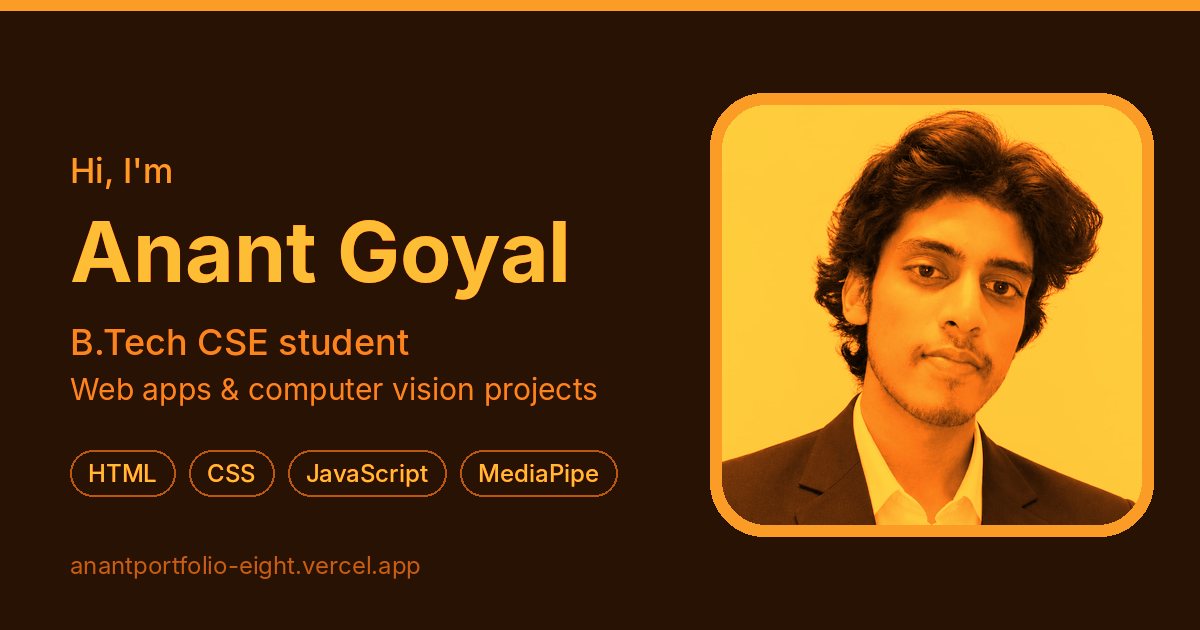
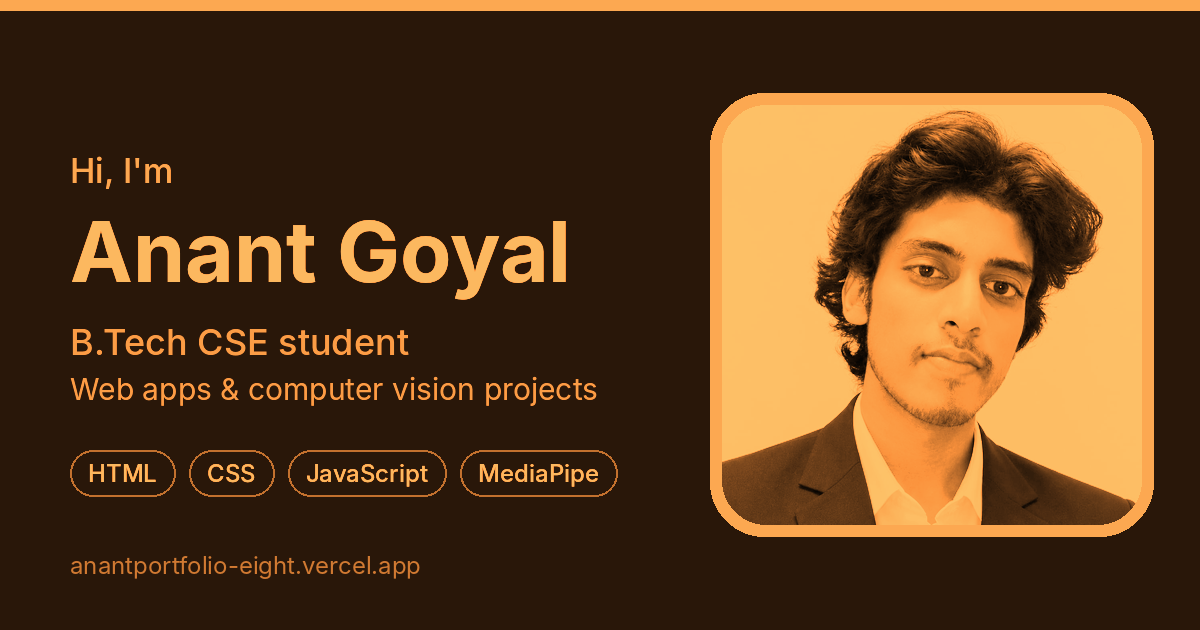
Lighter orange/yellow, bigger name, Sora + Plus Jakarta Sans fonts
Claude-Session: https://claude.ai/code/session_011E42H1WkRXJ2XLUoMEojoR

diff --git a/clean-ui.css b/clean-ui.css
@@ -330,7 +330,7 @@ footer .back-to-top-link:hover{
   display:block;
 }
 .hero-tagline{
-  font-family:"Space Grotesk",Inter,system-ui,sans-serif;
+  font-family:Sora,"Plus Jakarta Sans",system-ui,sans-serif;
   font-weight:700;
   font-size:clamp(1.15rem,2.6vw,1.55rem);
   line-height:1.3;
@@ -398,7 +398,7 @@ footer .back-to-top-link:hover{
   margin:0 0 20px !important;
 }
 .finale-sub{
-  font-family:"Space Grotesk",Inter,sans-serif;
+  font-family:Sora,"Plus Jakarta Sans",sans-serif;
   font-weight:700;
   font-size:clamp(1rem,2.4vw,1.25rem);
   color:#a3a3a3;
@@ -430,12 +430,12 @@ footer .back-to-top-link:hover{
   --bg2:#0d0a07 !important;
   --text:#fff7ea !important;
   --muted:#b3a899 !important;
-  --accent:#FFB300 !important;
-  --accent2:#F97316 !important;
-  --accent3:#FFD23F !important;
+  --accent:#FCD34D !important;
+  --accent2:#FB923C !important;
+  --accent3:#FFE68A !important;
   --border:#2b2116 !important;
-  --accent-rgb:255,179,0 !important;
-  --accent2-rgb:249,115,22 !important;
+  --accent-rgb:252,211,77 !important;
+  --accent2-rgb:251,146,60 !important;
   --accent3-rgb:255,210,63 !important;
   --nav-bg:rgba(0,0,0,.9) !important;
   --tag-bg:#18110a !important;
@@ -443,26 +443,26 @@ footer .back-to-top-link:hover{
   --heat-empty:#18110a !important;
   --skel-base:#18110a !important;
   --btn-text:#000000 !important;
-  --btn-shadow:#C2410C !important;
+  --btn-shadow:#EA7A28 !important;
   --ghost-shadow:#18110a !important;
-  --h1-shadow:0 2px 28px rgba(249,115,22,.18) !important;
+  --h1-shadow:0 2px 28px rgba(251,146,60,.18) !important;
 }
-:root{--grad:linear-gradient(100deg,#FFD23F 0%,#FFB300 38%,#F97316 100%)}
+:root{--grad:linear-gradient(100deg,#FFE68A 0%,#FCD34D 38%,#FB923C 100%)}
 .card{background:#0d0a07 !important;border-color:#2b2116 !important}
-.project:hover{border-color:#F97316 !important}
+.project:hover{border-color:#FB923C !important}
 
 /* Name: ANANT white, GOYAL in yellow→orange with soft warm glow */
 .name-hot{
   background:var(--grad);
   -webkit-background-clip:text;background-clip:text;
   -webkit-text-fill-color:transparent;color:transparent !important;
-  filter:drop-shadow(0 4px 26px rgba(249,115,22,.35));
+  filter:drop-shadow(0 4px 26px rgba(251,146,60,.35));
 }
 .hero-copy::before,
-#intro-splash .intro-inner::before{-webkit-text-stroke:1px rgba(255,150,40,.10)}
-#intro-splash .intro-line{background:linear-gradient(90deg,transparent,#FFB300,#F97316,transparent)}
+#intro-splash .intro-inner::before{-webkit-text-stroke:1px rgba(252,170,70,.10)}
+#intro-splash .intro-line{background:linear-gradient(90deg,transparent,#FCD34D,#FB923C,transparent)}
 .hero .lead{color:#b3a899 !important}
-.eyebrow,[data-theme="dark"] .eyebrow{color:#FFB300 !important}
+.eyebrow,[data-theme="dark"] .eyebrow{color:#FCD34D !important}
 
 /* Primary buttons: yellow→orange, black bold text */
 .btn.btn-primary,
@@ -470,41 +470,48 @@ footer .back-to-top-link:hover{
 #contact .btn.btn-primary{
   background:var(--grad) !important;color:#000 !important;
   border:0 !important;font-weight:800 !important;
-  box-shadow:0 8px 24px rgba(249,115,22,.28) !important;
+  box-shadow:0 8px 24px rgba(251,146,60,.28) !important;
 }
 .btn.btn-primary:hover,
 .proj-actions .btn:hover,.proj-actions a.btn:hover,.project .proj-actions .btn.small:hover{
-  background:linear-gradient(100deg,#FFE066,#FFC21A 40%,#FB8A3C) !important;color:#000 !important;
-  transform:translateY(-2px);box-shadow:0 12px 30px rgba(249,115,22,.42) !important;
+  background:linear-gradient(100deg,#FFF1A8,#FDDD6B 40%,#FDA45E) !important;color:#000 !important;
+  transform:translateY(-2px);box-shadow:0 12px 30px rgba(251,146,60,.42) !important;
 }
 .btn.ghost,.nav nav a.btn.small,.nav nav a[href="#contact"].btn{
-  background:transparent !important;color:#FFB300 !important;
-  border:1.5px solid #F97316 !important;font-weight:800 !important;
+  background:transparent !important;color:#FCD34D !important;
+  border:1.5px solid #FB923C !important;font-weight:800 !important;
 }
 .btn.ghost:hover,.nav nav a.btn.small:hover{
-  background:rgba(249,115,22,.14) !important;border-color:#FFB300 !important;color:#FFD23F !important;
+  background:rgba(251,146,60,.14) !important;border-color:#FCD34D !important;color:#FFE68A !important;
 }
-.nav nav a.btn,.nav nav a.btn:hover{color:#FFB300 !important}
-.nav nav a:not(.btn):hover{color:#FFB300 !important}
+.nav nav a.btn,.nav nav a.btn:hover{color:#FCD34D !important}
+.nav nav a:not(.btn):hover{color:#FCD34D !important}
 
 /* Social buttons */
 .socials a.social-btn{
-  background:#0d0a07 !important;color:#FFB300 !important;border:1.5px solid #5a3a14 !important;
+  background:#0d0a07 !important;color:#FCD34D !important;border:1.5px solid #6b4a1c !important;
 }
 .socials a.social-btn:hover{
   background:var(--grad) !important;color:#000 !important;border-color:transparent !important;
-  box-shadow:0 8px 22px rgba(249,115,22,.35) !important;
+  box-shadow:0 8px 22px rgba(251,146,60,.35) !important;
 }
 
 /* Links, hero badge, back to top */
-[data-theme="dark"] a:hover{color:#FFB300}
-.card .plain li a[href^="http"]{text-decoration-color:rgba(255,179,0,.6)}
-.card .plain li a[href^="http"]::after{color:#F97316}
-.card .plain li a[href^="http"]:hover{text-decoration-color:#FFB300;background:rgba(255,179,0,.1)}
-.card .plain li a[href^="http"]:focus-visible,.btn:focus-visible,a:focus-visible{outline:2px solid #FFB300 !important}
-footer .back-to-top-link{border-bottom-color:rgba(255,179,0,.5)}
-footer .back-to-top-link:hover{border-bottom-color:#FFB300;color:#FFB300 !important}
-.back-to-top{background:var(--grad) !important;color:#000 !important;box-shadow:0 8px 24px rgba(249,115,22,.4) !important}
-.hero-badge{border-color:rgba(249,115,22,.45) !important}
-.finale::before{background:radial-gradient(ellipse 60% 50% at 50% 100%,rgba(249,115,22,.14),transparent 70%) !important}
+[data-theme="dark"] a:hover{color:#FCD34D}
+.card .plain li a[href^="http"]{text-decoration-color:rgba(252,211,77,.6)}
+.card .plain li a[href^="http"]::after{color:#FB923C}
+.card .plain li a[href^="http"]:hover{text-decoration-color:#FCD34D;background:rgba(252,211,77,.1)}
+.card .plain li a[href^="http"]:focus-visible,.btn:focus-visible,a:focus-visible{outline:2px solid #FCD34D !important}
+footer .back-to-top-link{border-bottom-color:rgba(252,211,77,.5)}
+footer .back-to-top-link:hover{border-bottom-color:#FCD34D;color:#FCD34D !important}
+.back-to-top{background:var(--grad) !important;color:#000 !important;box-shadow:0 8px 24px rgba(251,146,60,.4) !important}
+.hero-badge{border-color:rgba(251,146,60,.45) !important}
+.finale::before{background:radial-gradient(ellipse 60% 50% at 50% 100%,rgba(251,146,60,.14),transparent 70%) !important}
 .finale{border-top-color:#2b2116 !important}
+
+/* Bigger name */
+.hero-mega{font-size:clamp(4.4rem,12vw,9rem) !important;line-height:.86 !important;letter-spacing:.025em !important}
+.hero-copy::before{font-size:clamp(6rem,26vw,15rem)}
+@media (max-width:760px){.hero-mega{font-size:clamp(4rem,21vw,6.2rem) !important}}
+#intro-splash .intro-name{font-size:clamp(4.2rem,20vw,11.5rem)}
+h1,h2,h3{letter-spacing:-.01em}

diff --git a/style.css b/style.css
@@ -30,10 +30,10 @@
 }
 *{box-sizing:border-box;margin:0;padding:0}
 html{scroll-behavior:smooth;scroll-padding-top:70px}
-body{background:var(--bg);color:var(--text);font-family:Inter,system-ui,sans-serif;line-height:1.65;transition:background .25s,color .25s}
+body{background:var(--bg);color:var(--text);font-family:"Plus Jakarta Sans",Inter,system-ui,sans-serif;line-height:1.65;transition:background .25s,color .25s}
 a{color:var(--accent2);text-decoration:none}
 a:hover{text-decoration:underline}
-h1,h2,h3,.logo{font-family:"Space Grotesk",Inter,sans-serif}
+h1,h2,h3,.logo{font-family:Sora,"Plus Jakarta Sans",sans-serif}
 
 .nav{position:fixed;top:0;left:0;right:0;z-index:10;display:flex;justify-content:space-between;align-items:center;
   padding:14px 24px;background:var(--nav-bg);backdrop-filter:blur(10px);border-bottom:1px solid var(--border)}
@@ -113,7 +113,7 @@ footer{text-align:center;color:var(--muted);padding:50px 0 30px;font-size:.9rem}
 
 .lc{margin-bottom:20px}
 .lc-body{display:grid;grid-template-columns:auto 1fr;gap:28px;align-items:center;margin:14px 0 6px}
-.lc-total strong{display:block;font-family:"Space Grotesk",Inter,sans-serif;font-size:3rem;line-height:1;color:var(--accent)}
+.lc-total strong{display:block;font-family:Sora,"Plus Jakarta Sans",sans-serif;font-size:3rem;line-height:1;color:var(--accent)}
 .lc-total span{color:var(--muted);font-size:.9rem}
 .lc-bars{display:grid;gap:12px}
 .lc-row{display:grid;grid-template-columns:64px 1fr 44px;gap:12px;align-items:center;font-size:.9rem}

diff --git a/index.html b/index.html
@@ -29,7 +29,7 @@
 <meta name="twitter:description" content="Anant Goyal portfolio — full-stack, computer vision and data projects.">
 <meta name="twitter:image" content="https://anantgoyalportfolio.vercel.app/assets/og-image.png">
 <link rel="preconnect" href="https://fonts.googleapis.com">
-<link href="https://fonts.googleapis.com/css2?family=Bebas+Neue&family=Space+Grotesk:wght@500;700&family=Inter:wght@400;500;600&display=swap" rel="stylesheet">
+<link href="https://fonts.googleapis.com/css2?family=Bebas+Neue&family=Sora:wght@500;600;700;800&family=Plus+Jakarta+Sans:wght@400;500;600;700;800&display=swap" rel="stylesheet">
 <link rel="stylesheet" href="style.css">
 <link rel="stylesheet" href="photo-stage.css">
 <link rel="stylesheet" href="scroll-3d.css">

diff --git a/intro.css b/intro.css
@@ -54,7 +54,7 @@
   position:relative;z-index:1;
   margin:22px auto 0;
   max-width:22em;
-  font-family:"Space Grotesk",Inter,system-ui,sans-serif;
+  font-family:Sora,"Plus Jakarta Sans",system-ui,sans-serif;
   font-weight:700;
   font-size:clamp(0.95rem,2.8vw,1.35rem);
   line-height:1.35;
@@ -66,7 +66,7 @@
 }
 #intro-splash .intro-hint{
   margin-top:28px;
-  font-family:Inter,system-ui,sans-serif;
+  font-family:"Plus Jakarta Sans",Inter,system-ui,sans-serif;
   font-size:.72rem;
   letter-spacing:.2em;
   text-transform:uppercase;

diff --git a/photo-assemble.js b/photo-assemble.js
@@ -11,7 +11,7 @@
   var running = false;
   var rand = function (a, b) { return a + Math.random() * (b - a); };
 
-  var COLORS = ['#F97316', '#FFB300', '#FFD23F', '#EA580C'];
+  var COLORS = ['#FB923C', '#FCD34D', '#FFE68A', '#F97316'];
 
   function orbPhase(cb) {
     var fr = frame.getBoundingClientRect();
